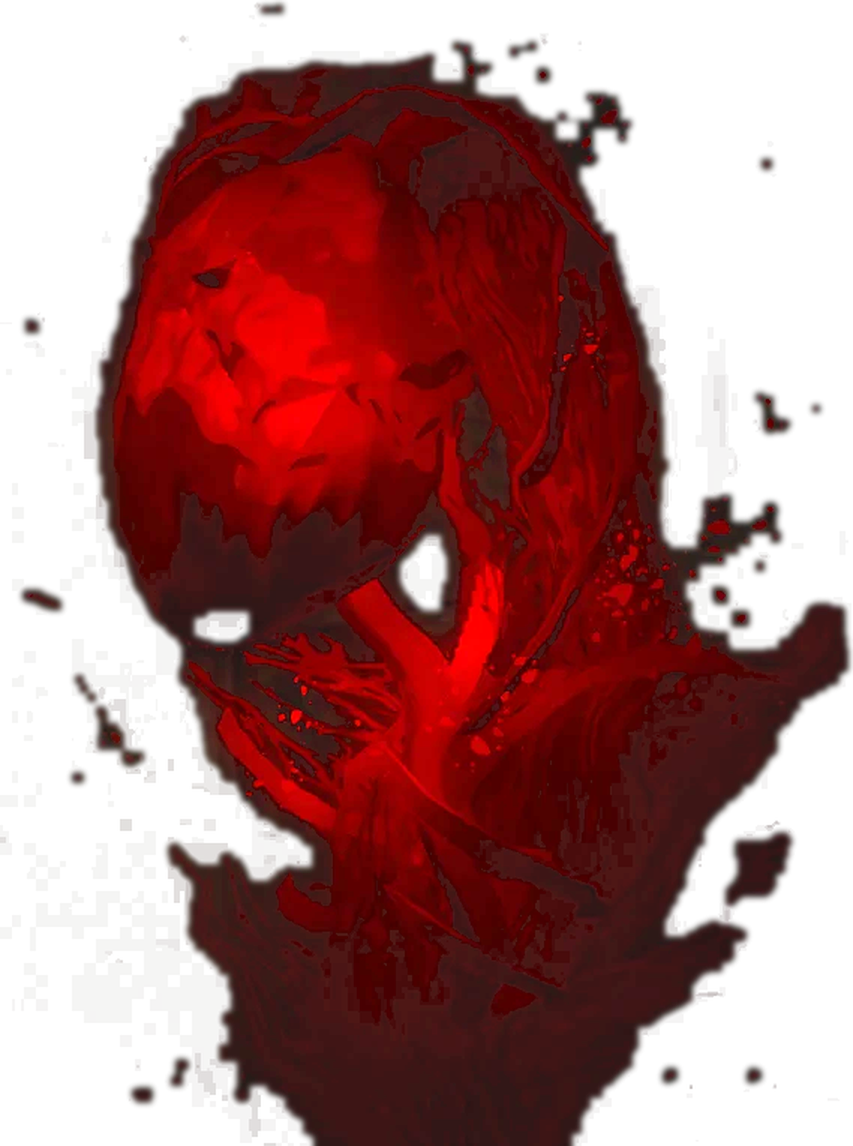
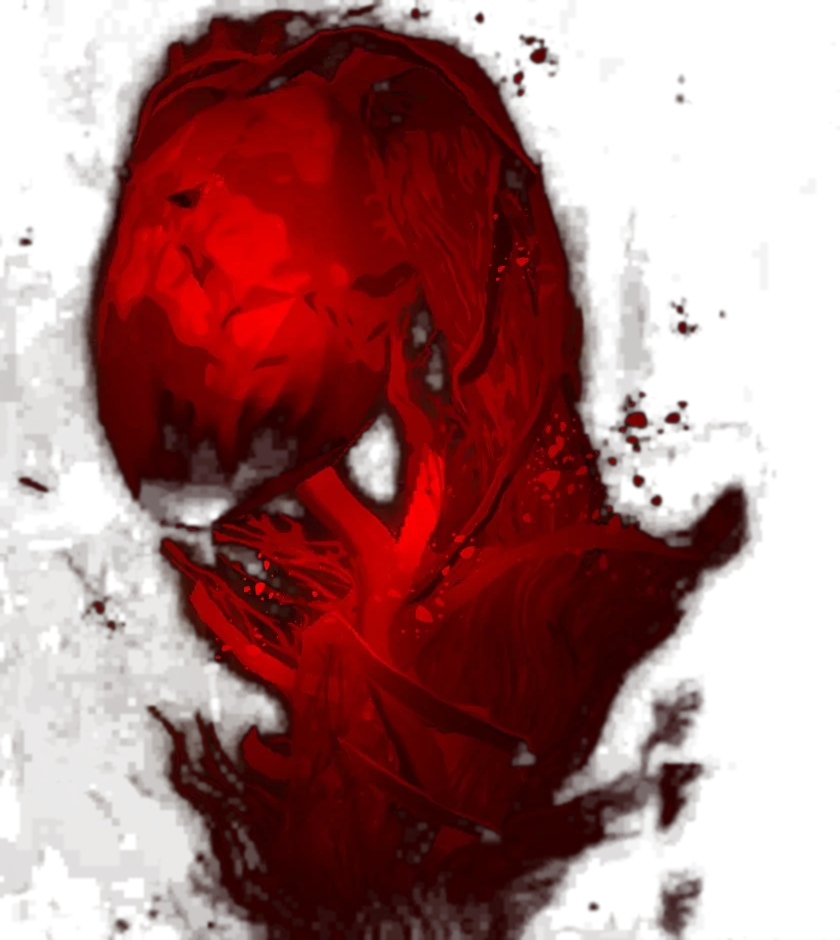
Trailers, shared lightbox, sharper plant, bigger BR title
- YouTube trailer section above the story on the Iris and Bleeding Roots pages
- Lightbox component shared by the BR gallery and the Iris inventory screenshots
- Plant re-cut from the 1920px cover art (about 1.5x the real pixels)
- BR logo larger, with the file's empty margin trimmed in CSS
- Seasons start with summer, spring last; BR press kit link

diff --git a/src/i18n/ui.ts b/src/i18n/ui.ts
@@ -58,6 +58,9 @@ export const ui = {
     "games.br.meta": "Gratis, unos 15 minutos",
     "games.br.steam": "Jugar gratis en Steam",
     "games.br.itch": "Jugar gratis en itch.io",
+    "br.presskit": "Press kit",
+    "br.trailer": "Tráiler de Bleeding Roots",
+    "iris.trailer": "Tráiler de la demo de Iris Dissolution",
     "br.tagline": "Un horror psicológico corto sobre un hombre solitario y su jardín.",
     "br.title": "Hay otras formas de hacer crecer un jardín.",
     "br.story1": "Un hombre solitario pasa sus días cuidando su jardín. Un día encuentra un libro extraño sobre otras formas de hacerlo crecer.",
@@ -78,7 +81,7 @@ export const ui = {
     "br.winter.alt": "El jardín en invierno visto desde arriba, cubierto de nieve bajo una luz azulada",
     "br.gallery": "Capturas",
     "br.galleryHint": "Tocá una captura para verla en grande.",
-    "br.close": "Cerrar",
+    "lightbox.close": "Cerrar",
     "br.shot1": "El hombre camina por el sendero de piedras del jardín, junto a un arbusto de lavanda y una soga con ropa colgada",
     "br.shot2": "La parte de atrás de la casa, con su puerta y escalones y una maceta sobre el pasto",
     "br.shot3": "Al fondo del jardín otoñal, la puerta iluminada de un cobertizo con el mensaje «Go inside»",
@@ -163,6 +166,9 @@ export const ui = {
     "games.br.meta": "Free, about 15 minutes",
     "games.br.steam": "Play free on Steam",
     "games.br.itch": "Play free on itch.io",
+    "br.presskit": "Press kit",
+    "br.trailer": "Bleeding Roots trailer",
+    "iris.trailer": "Iris Dissolution demo trailer",
     "br.tagline": "A short psychological horror about a lonely man and his garden.",
     "br.title": "There are other ways to make a garden grow.",
     "br.story1": "A lonely man spends his days taking care of his garden. One day he finds a strange book about other ways to make it grow.",
@@ -183,7 +189,7 @@ export const ui = {
     "br.winter.alt": "The garden in winter from above, covered in snow under a bluish light",
     "br.gallery": "Screenshots",
     "br.galleryHint": "Click a screenshot to see it bigger.",
-    "br.close": "Close",
+    "lightbox.close": "Close",
     "br.shot1": "The man walks the stone path through the garden, next to a lavender bush and a clothesline",
     "br.shot2": "The back of the house, with its door and steps and a potted plant on the grass",
     "br.shot3": "At the end of the autumn garden, a shed's lit doorway with the prompt “Go inside”",
